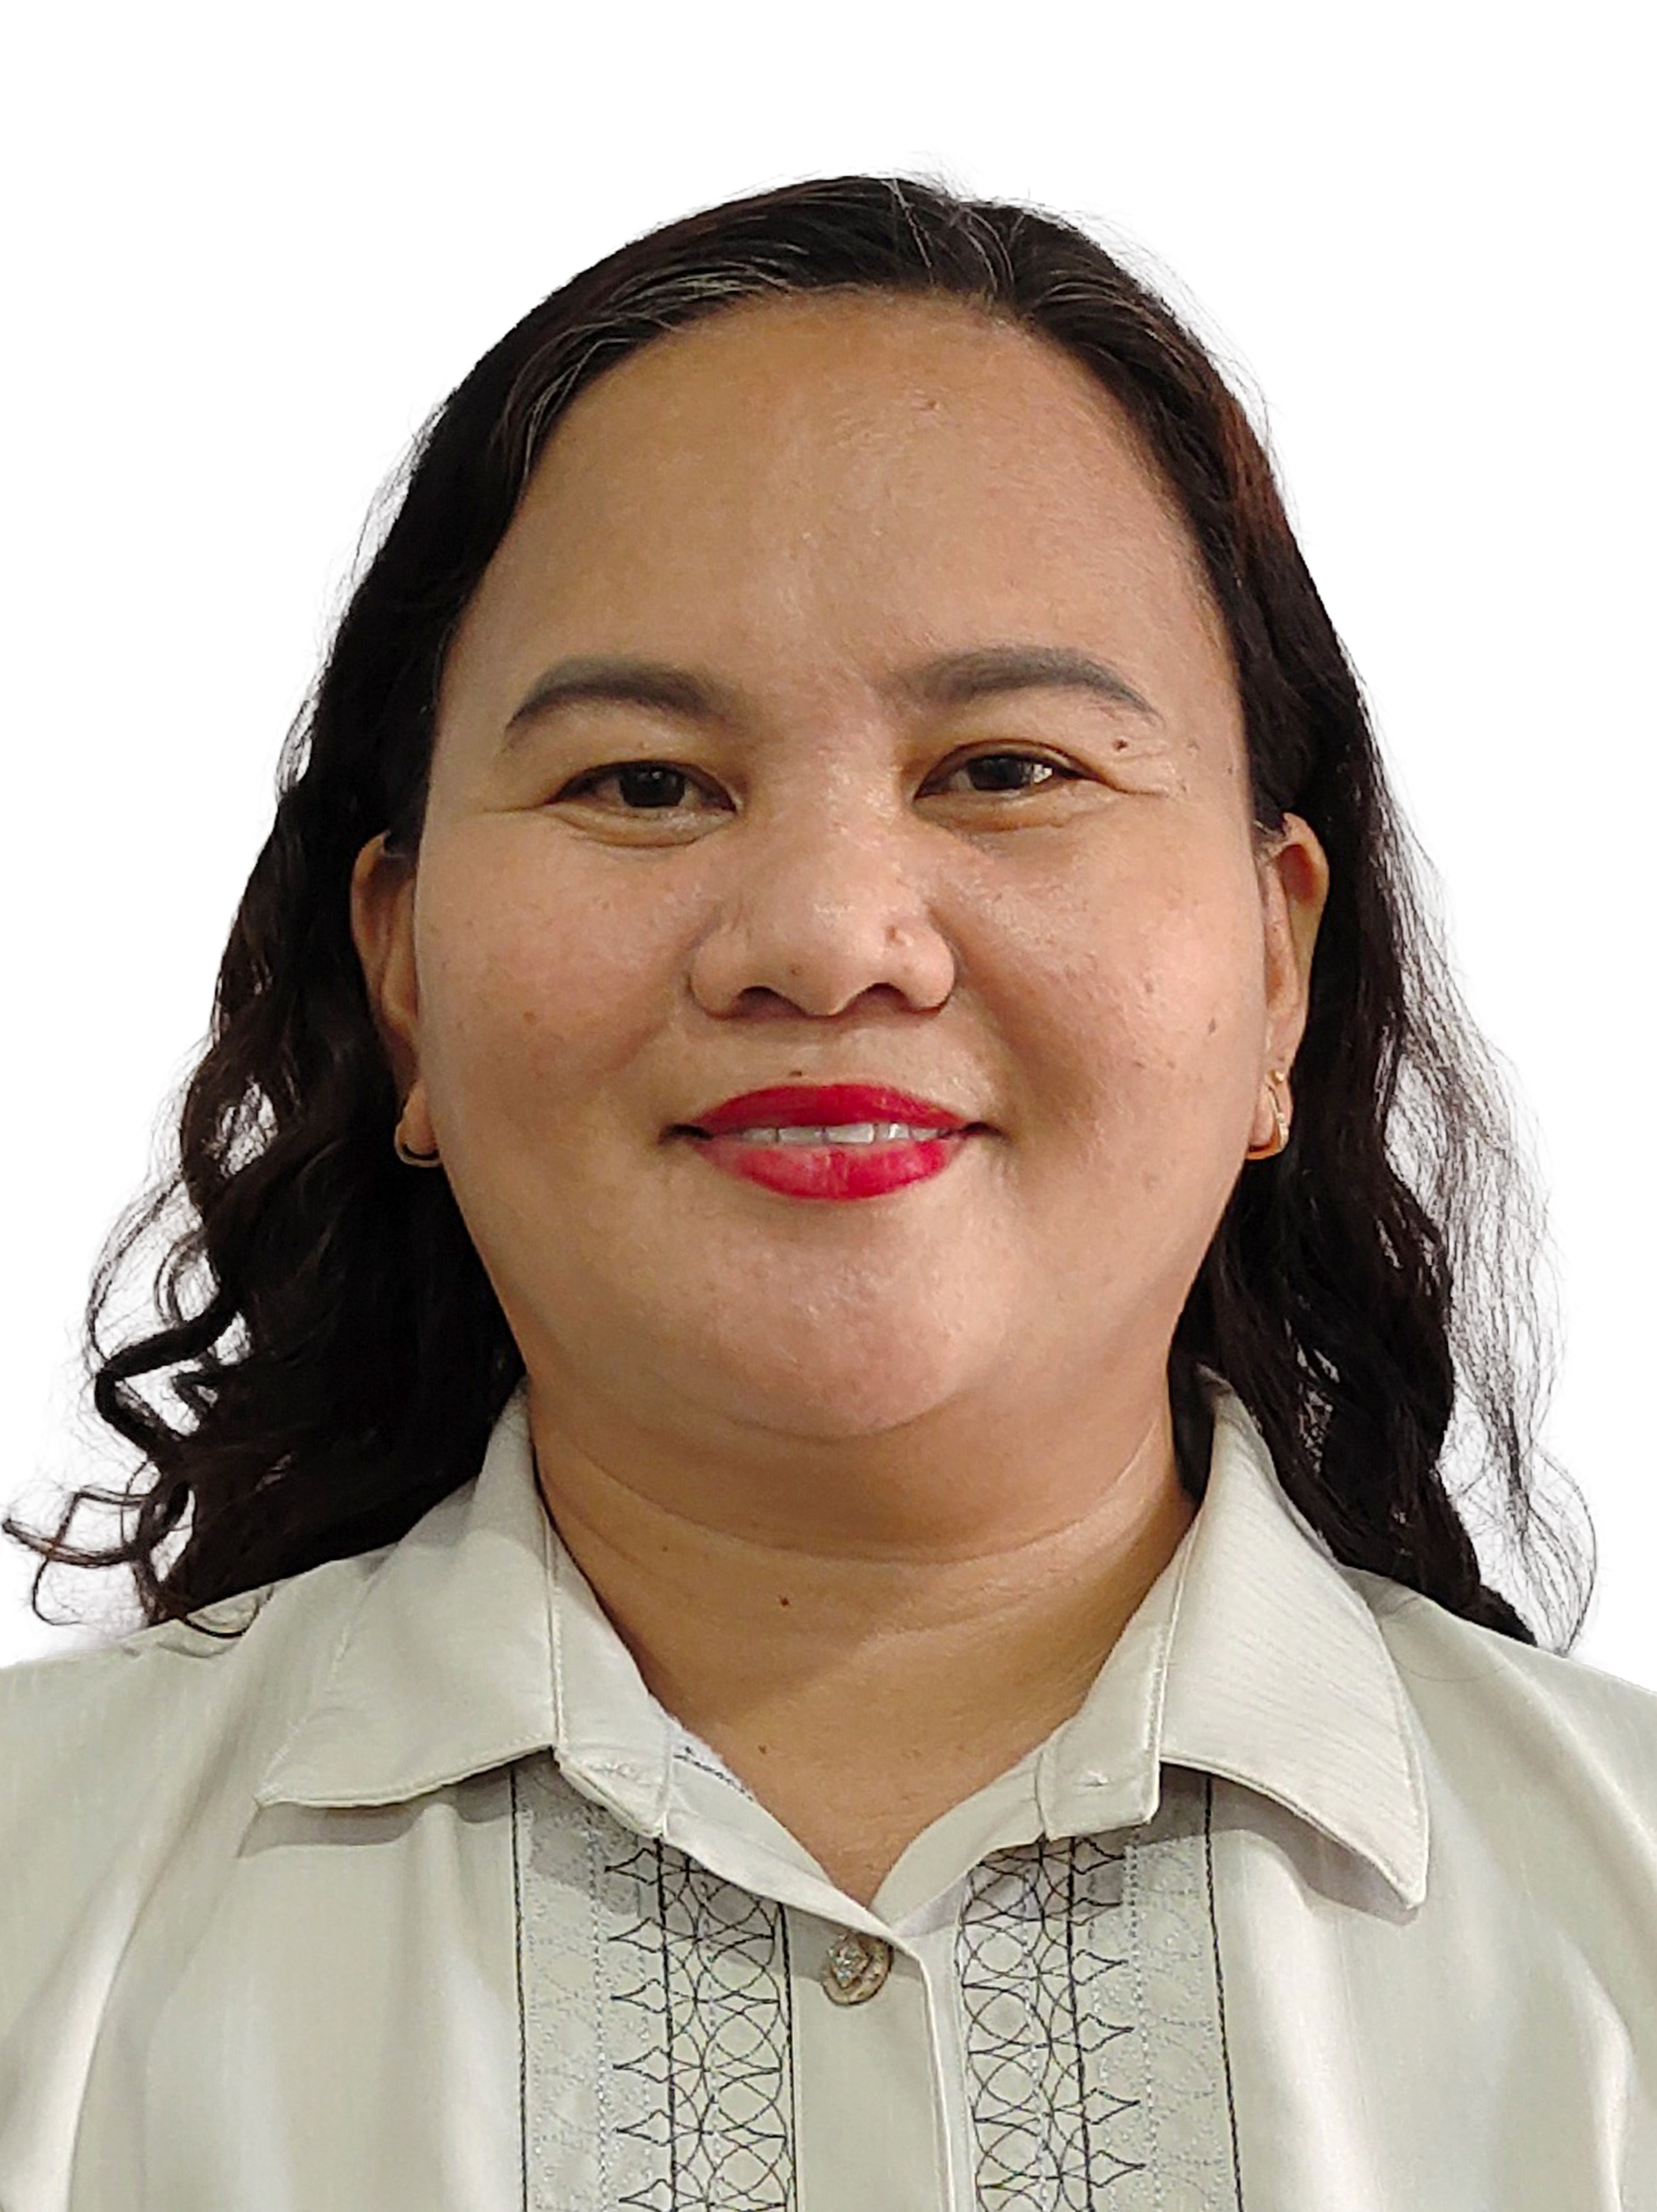
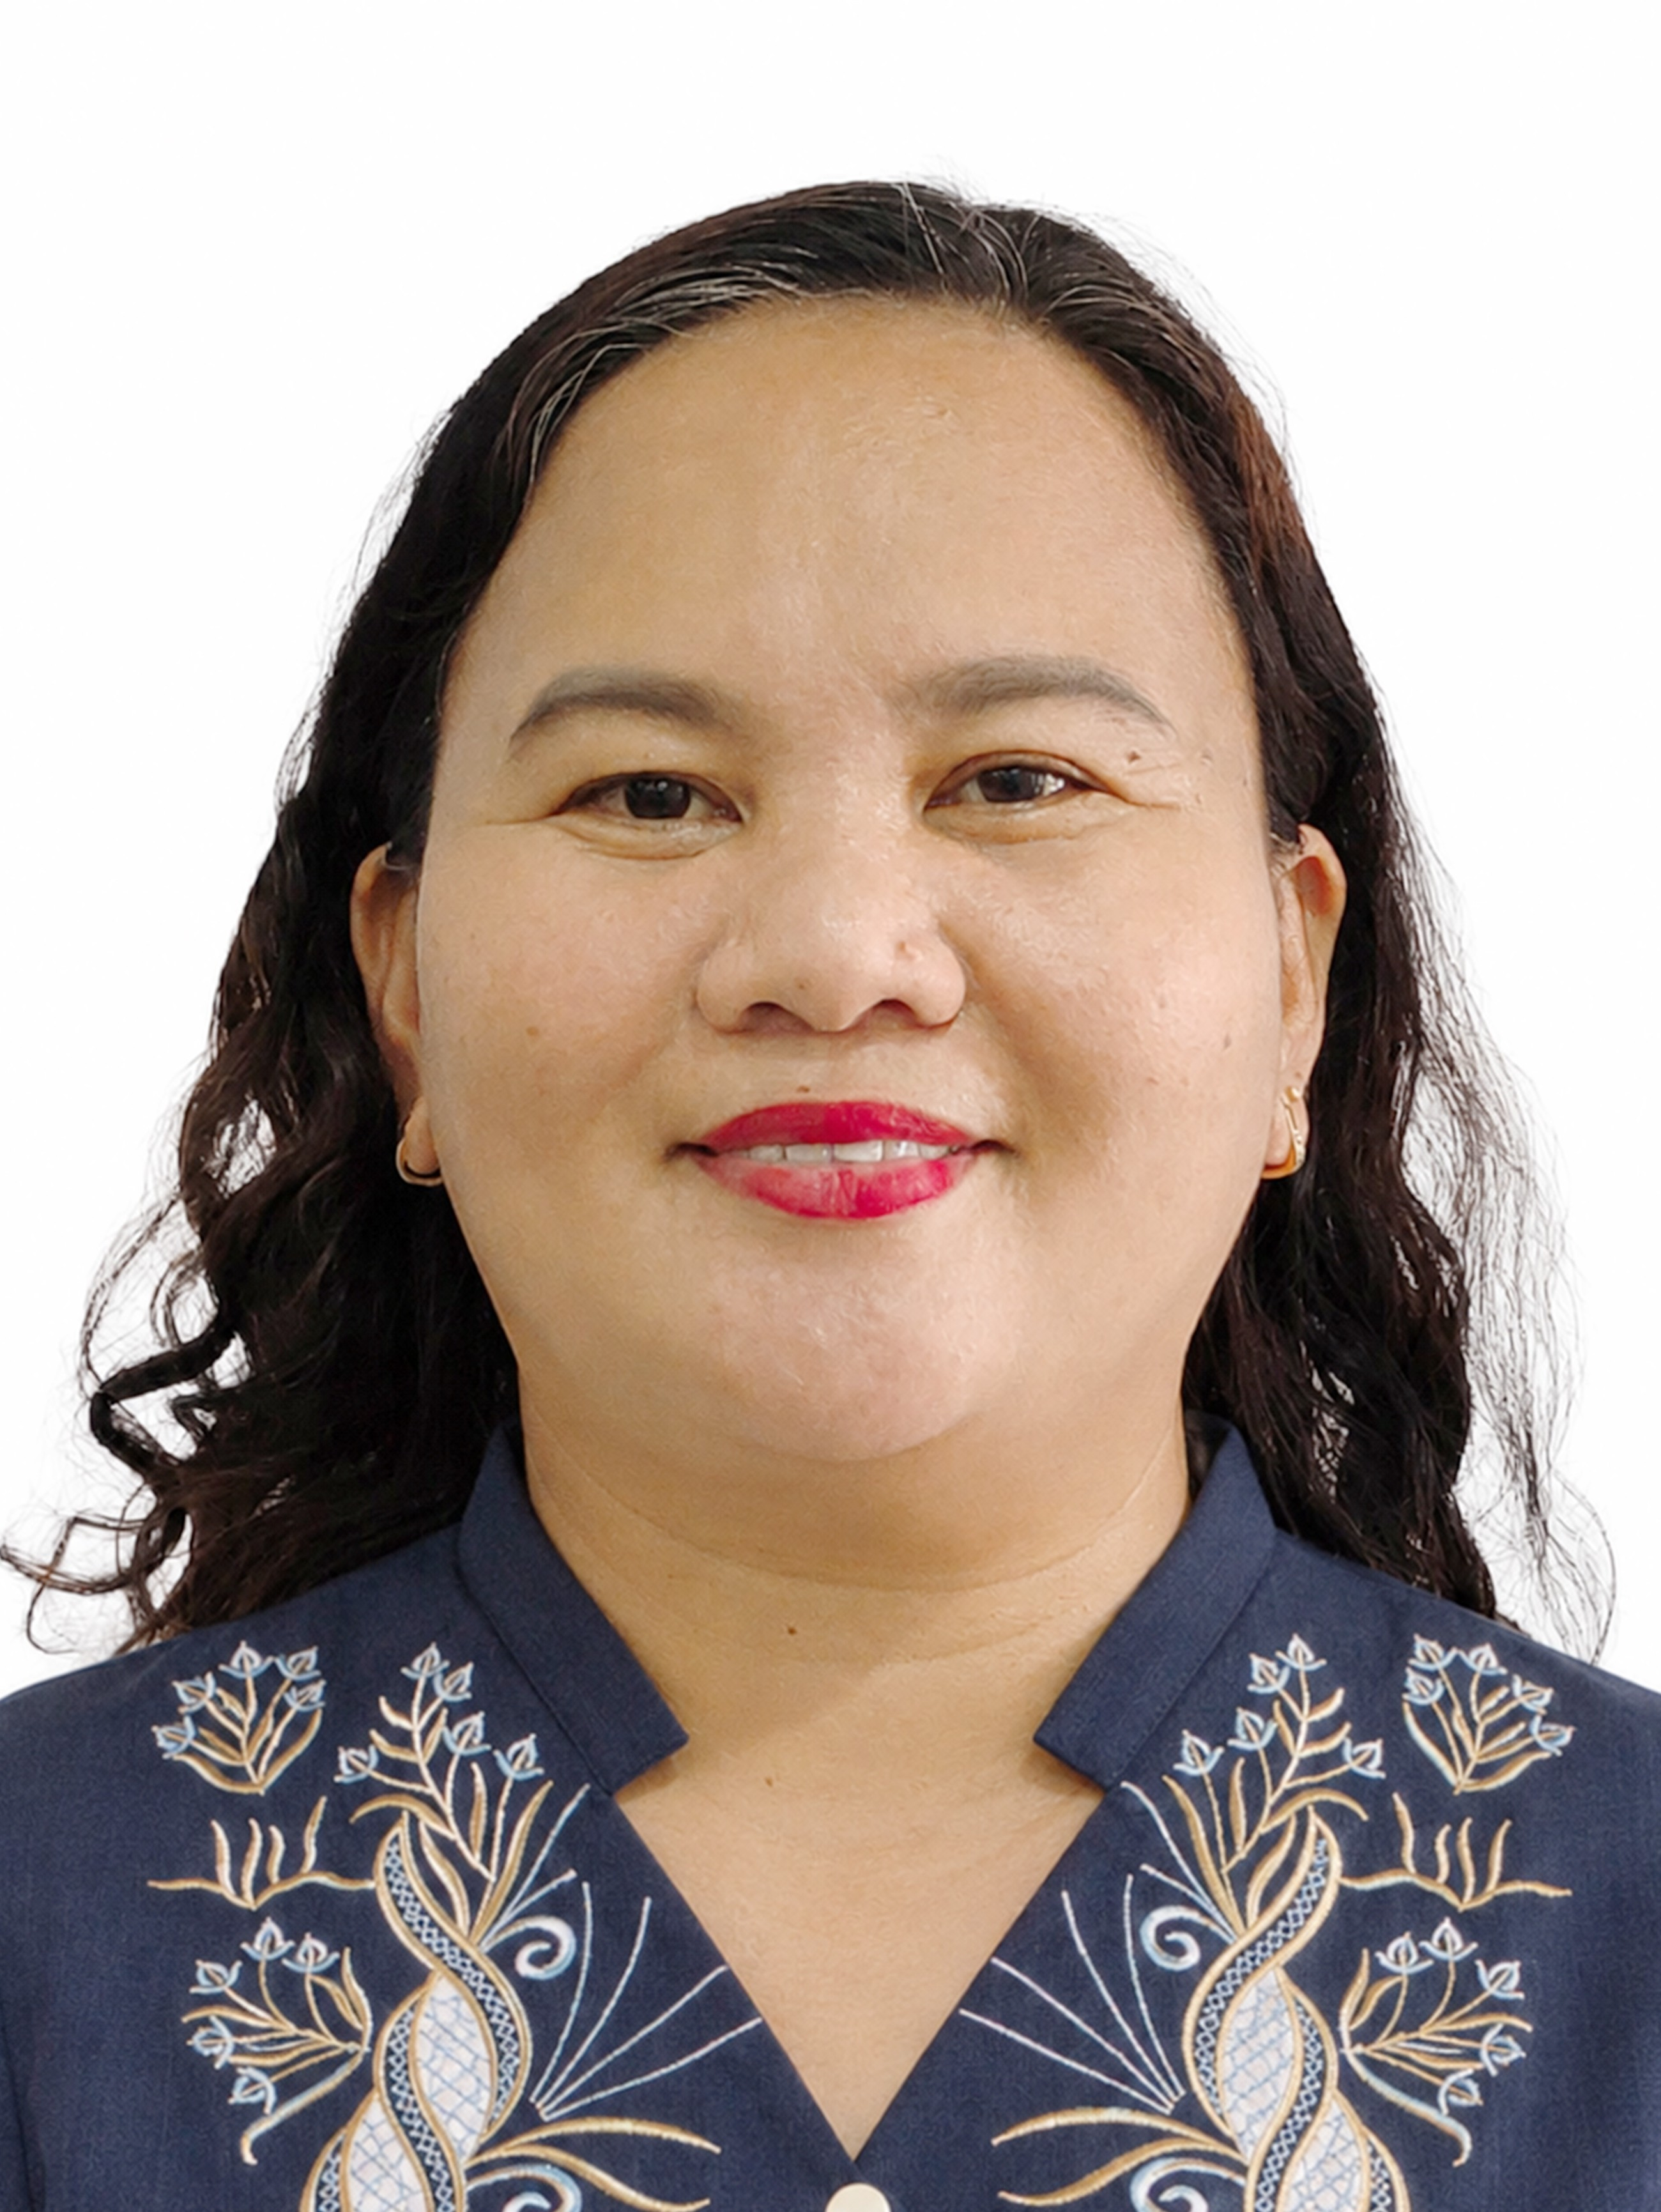
refined profile picture & update modal

diff --git a/src/components/PersonnelModal.tsx b/src/components/PersonnelModal.tsx
@@ -591,7 +591,7 @@ export default function PersonnelModal({
 
             <div className="flex w-full flex-col md:flex-row">
               <aside className="shrink-0 bg-white px-5 pb-5 pt-16 sm:px-6 sm:pb-6 md:flex md:w-[38%] md:flex-col md:items-center md:justify-center md:px-10 md:py-12">
-                <div className="mx-auto flex max-w-[460px] items-start gap-4 text-left md:block md:max-w-none md:text-center">
+                <div className="mx-auto flex max-w-[460px] items-end gap-4 text-left md:block md:max-w-none md:text-center">
                   <div className="aspect-[3/4] w-[150px] max-w-[42vw] shrink-0 overflow-hidden rounded-[10px] bg-[#f3b02f] shadow-md ring-1 ring-black/10 sm:w-[170px] md:mx-auto md:w-full md:max-w-[234px]">
                     {showPhoto ? (
                       <img
@@ -607,31 +607,32 @@ export default function PersonnelModal({
                     )}
                   </div>
 
-                  <div className="min-w-0 flex-1 pt-1 md:pt-0">
+                  <div className="min-w-0 flex-1 pb-1 md:pt-0">
                     <h2
-                      title={displayName}
-                      className="line-clamp-2 text-2xl font-bold leading-tight tracking-[-0.02em] text-slate-950 sm:text-[26px] md:mt-10 md:text-[30px] md:leading-tight"
-                    >
-                      {displayName}
-                    </h2>
+                          title={displayName}
+                          className="line-clamp-2 text-2xl font-bold leading-tight tracking-[-0.02em] text-slate-950 sm:text-[26px] md:mt-10 md:text-[30px] md:leading-tight"
+                        >
+                          {displayName}
+                        </h2>
 
-                    {positionText && (
-                      <p className="mt-2 text-base font-semibold leading-5 text-[#024253] sm:text-[17px] md:mt-6 md:text-lg md:leading-6">
-                        {positionText}
-                      </p>
-                    )}
+                        {positionText && (
+                          <p className="mt-2 text-base font-semibold leading-5 text-[#024253] sm:text-[17px] md:mt-6 md:text-lg md:leading-6">
+                            {positionText}
+                          </p>
+                        )}
 
-                    {teachingDepartmentText && (
-                      <p className="mt-1 text-sm font-bold uppercase leading-5 tracking-[0.12em] text-slate-500 sm:text-[15px] md:text-base">
-                        {teachingDepartmentText}
-                      </p>
-                    )}
+                        {teachingDepartmentText && (
+                          <p className="mt-1 text-sm font-bold uppercase leading-5 tracking-[0.12em] text-slate-500 sm:text-[15px] md:text-base">
+                            {teachingDepartmentText}
+                          </p>
+                        )}
 
-                    {designationText && (
-                      <p className="mt-2 line-clamp-3 text-sm font-semibold leading-5 text-slate-700 sm:text-[15px] md:mx-auto md:max-w-[280px] md:text-base md:leading-6">
-                        {designationText}
-                      </p>
-                    )}
+                        {designationText && (
+                          <p className="mt-2 line-clamp-3 text-sm font-semibold leading-5 text-slate-700 sm:text-[15px] md:mx-auto md:max-w-[280px] md:text-base md:leading-6">
+                            {designationText}
+                          </p>
+                        )}
+
                   </div>
                 </div>
               </aside>